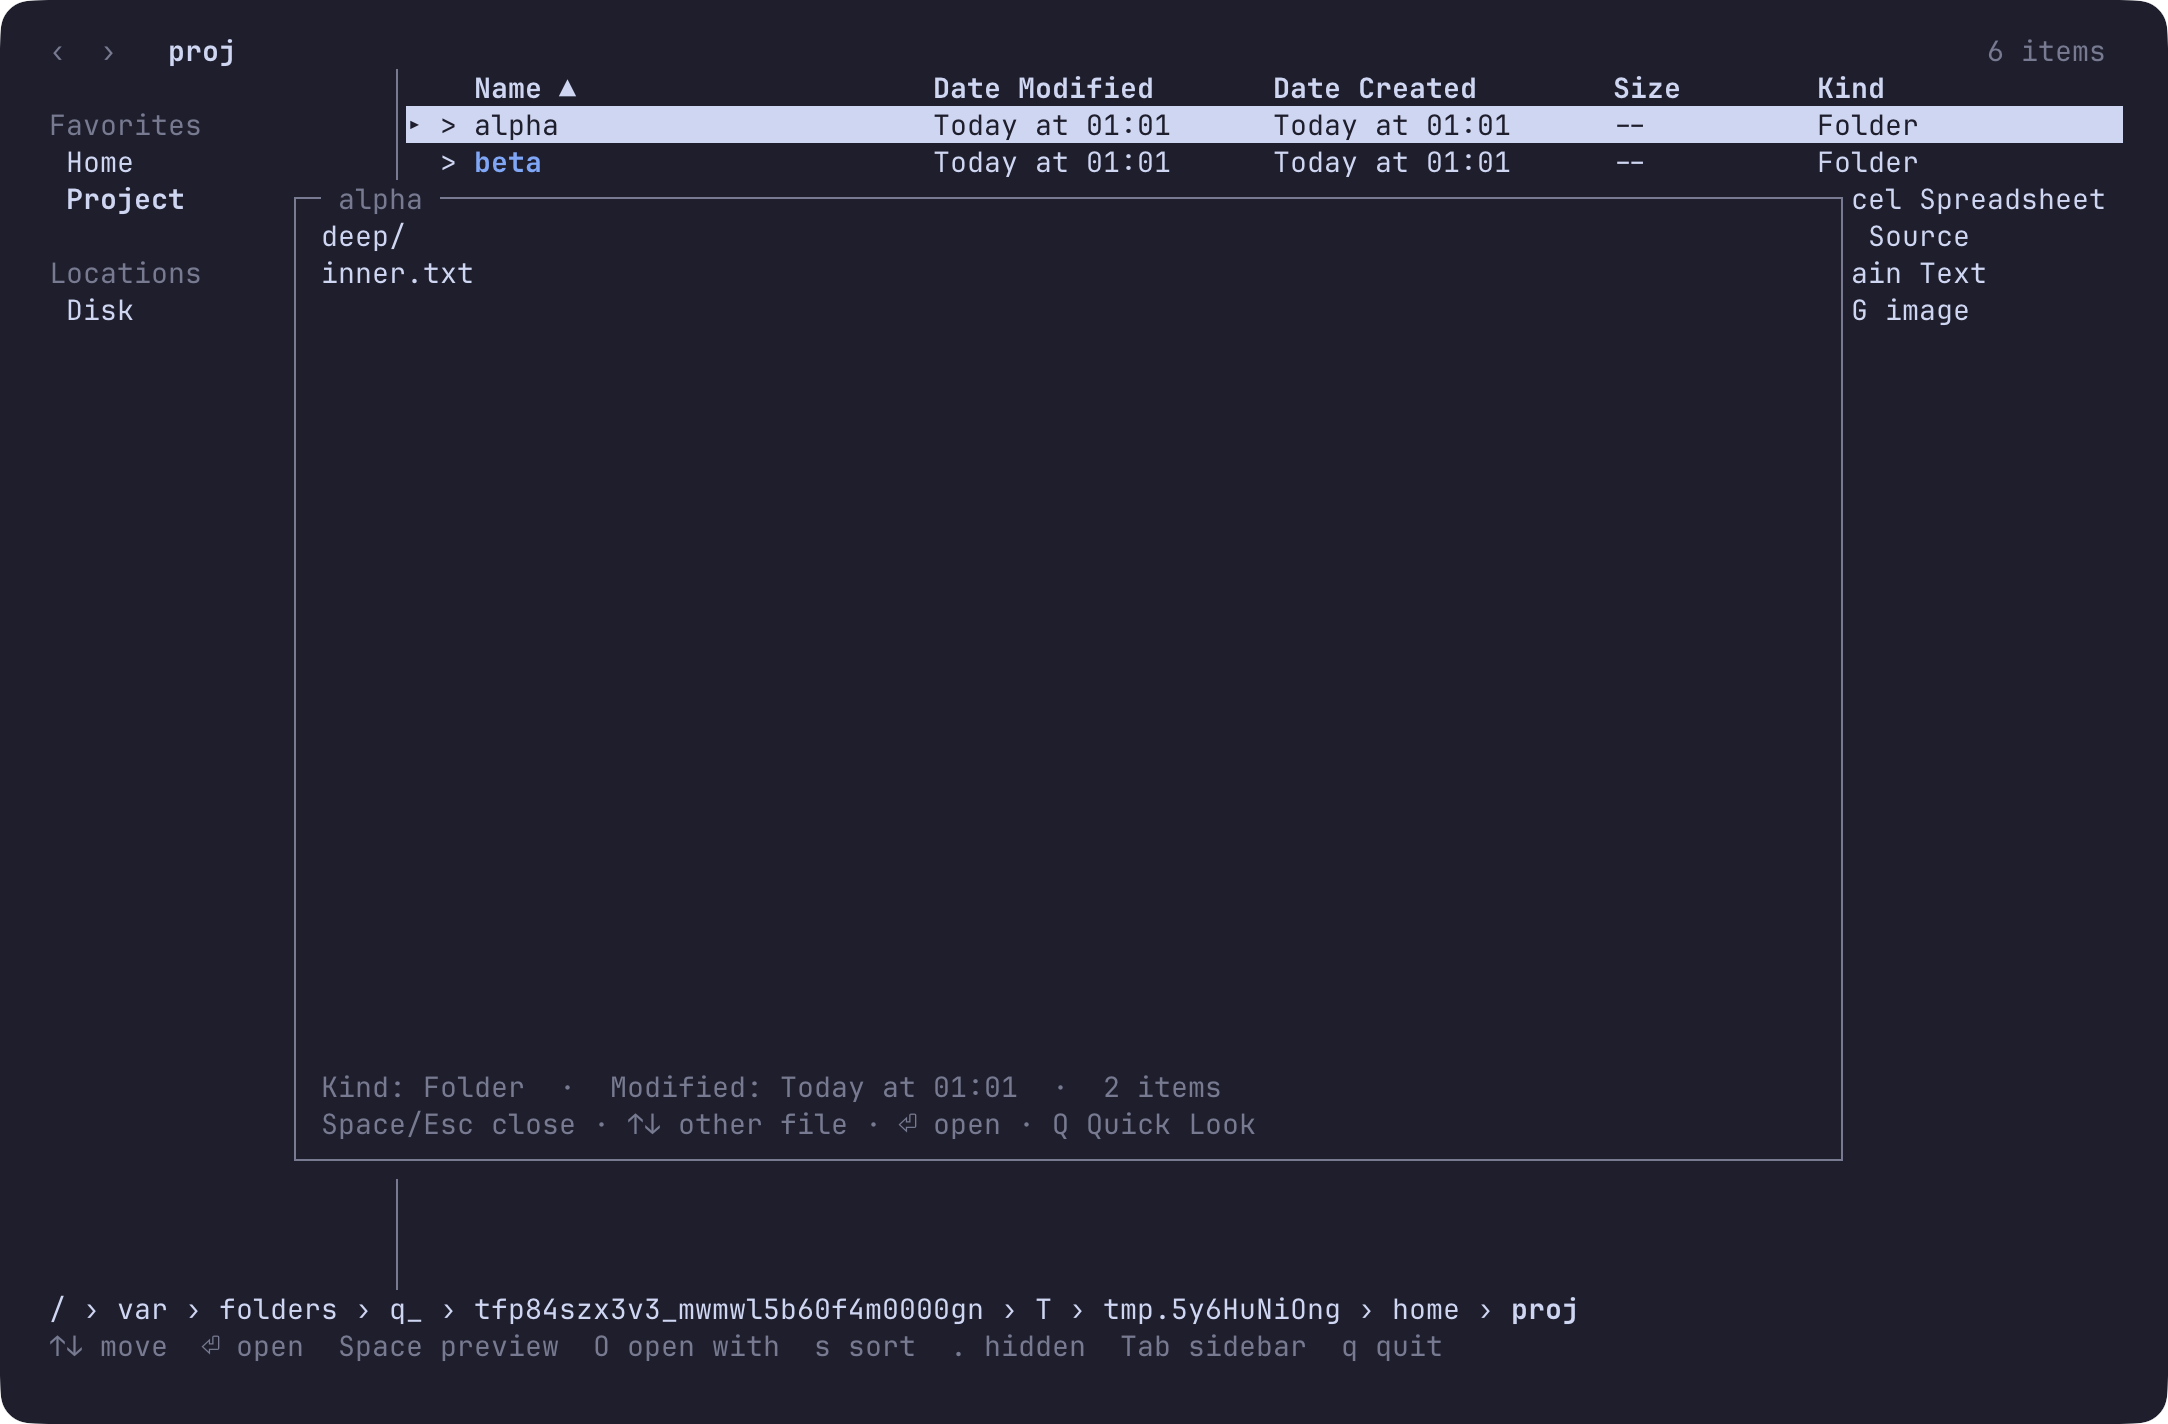
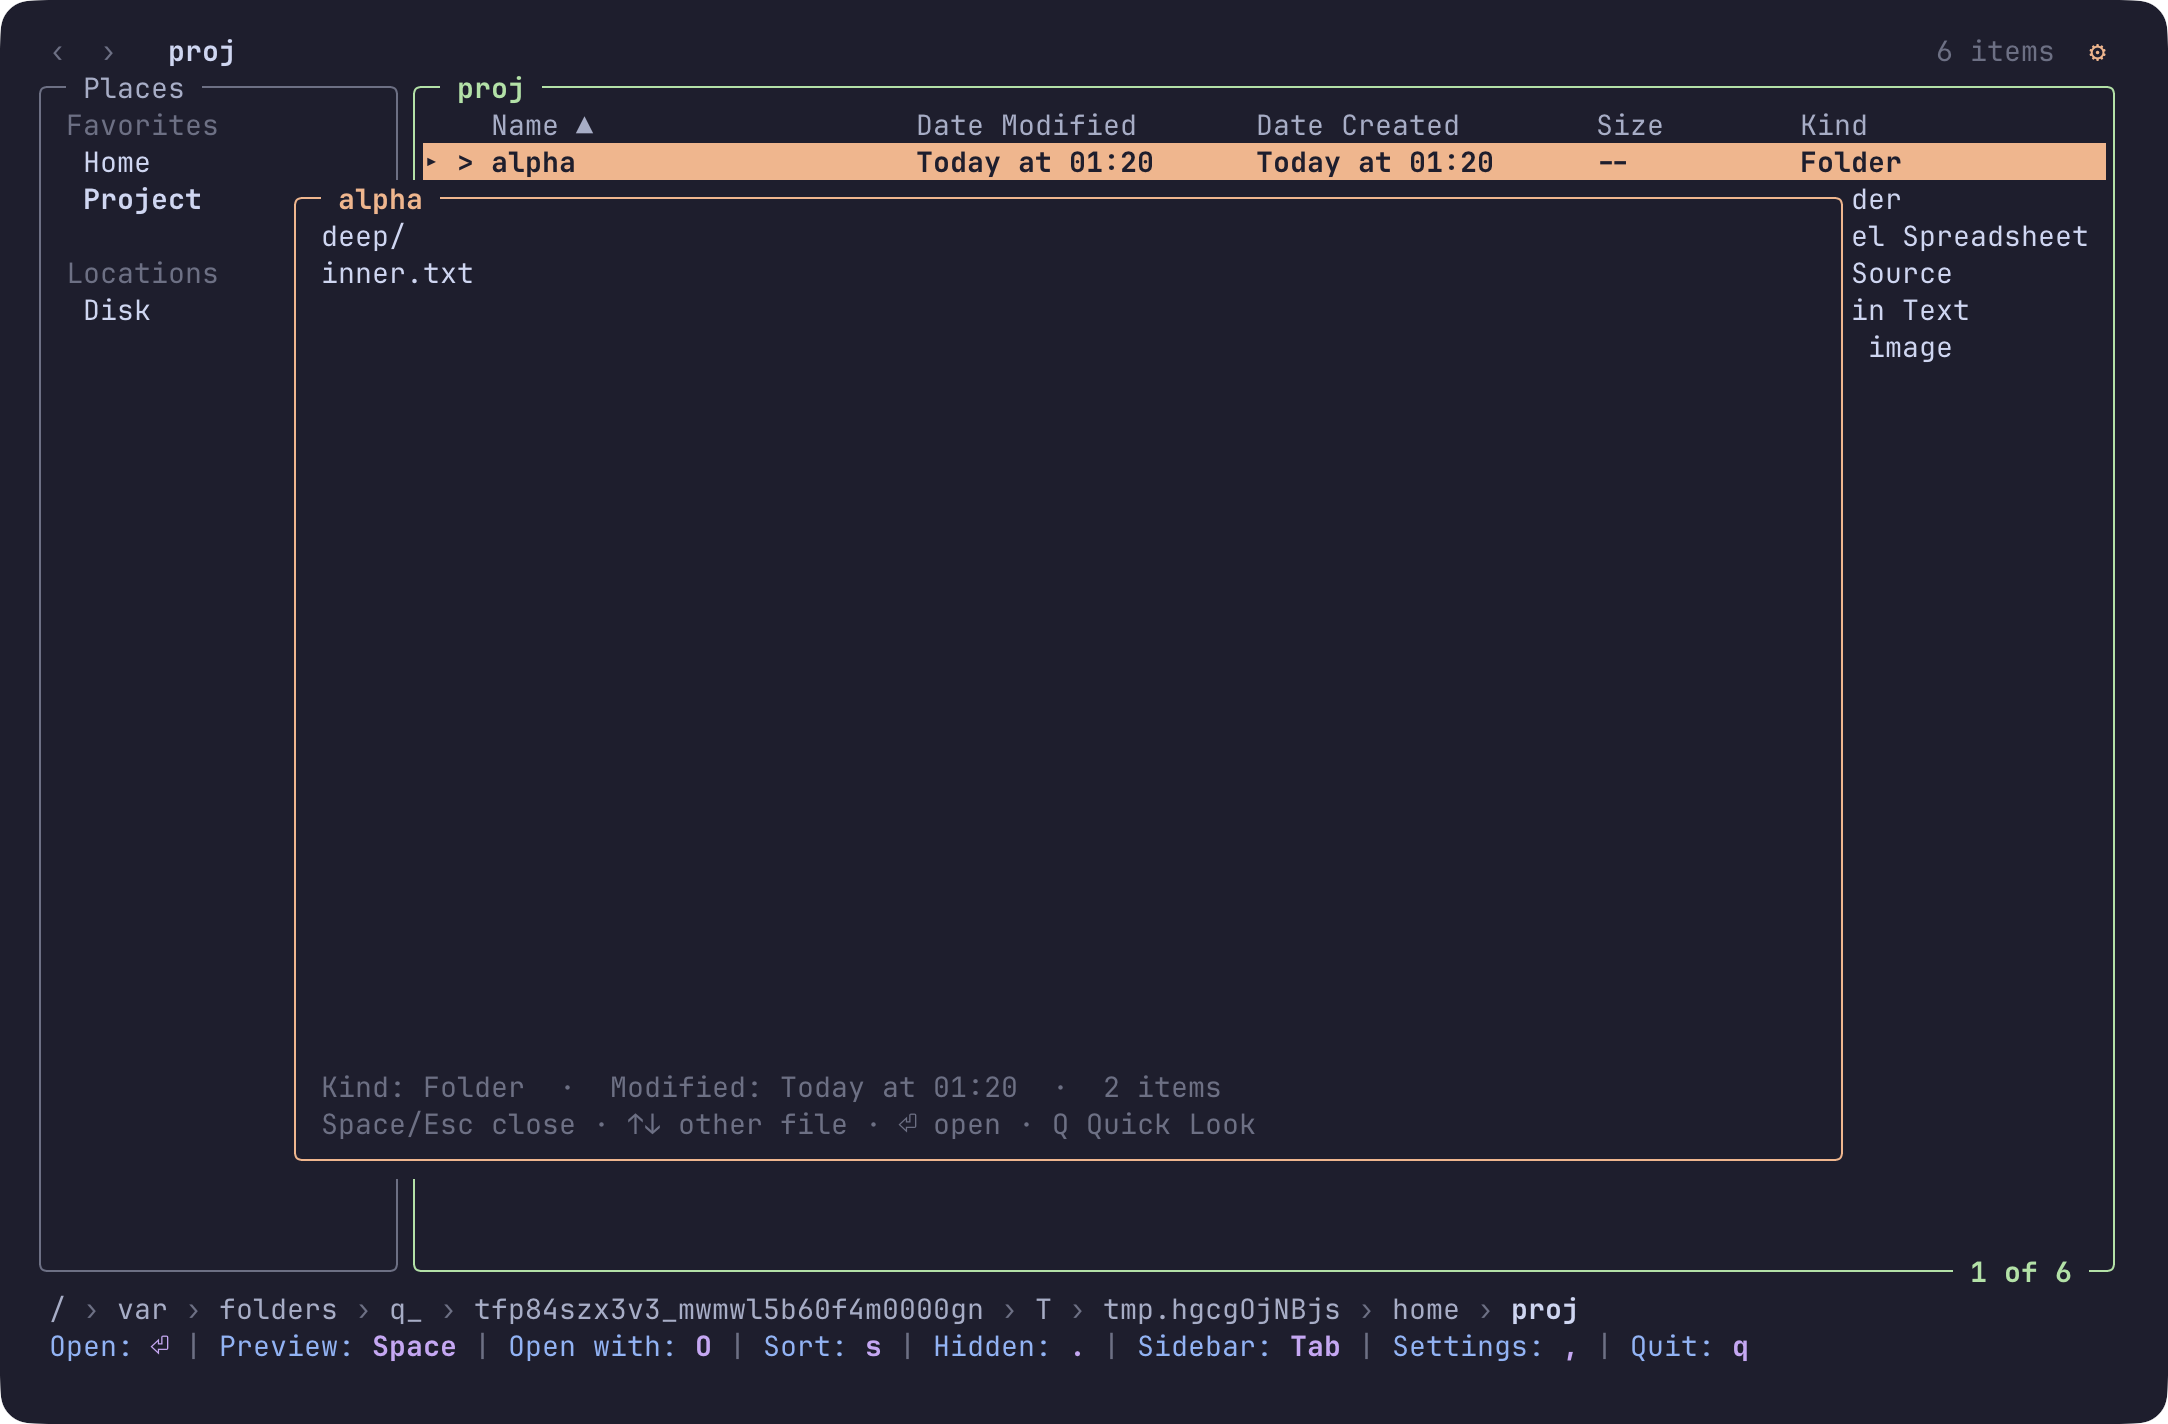
docs: refresh screenshots for the lazy look, themes, settings and Spanish

diff --git a/README.md b/README.md
@@ -10,7 +10,7 @@ Columns, a sidebar, a Space preview popup and open-with, with keyboard and mouse
 [![Go version](https://img.shields.io/github/go-mod/go-version/MathiasDrizzy/lazyfinder)](go.mod)
 [![License: MIT](https://img.shields.io/github/license/MathiasDrizzy/lazyfinder)](LICENSE)
 
-<img src="docs/screenshots/list.png" alt="lazyfinder showing a folder with a sidebar and the columns Name, Date Modified, Date Created, Size and Kind" width="100%">
+<img src="docs/screenshots/list.png" alt="lazyfinder with rounded panels, a sidebar, the columns Name, Date Modified, Date Created, Size and Kind, and a key bar" width="100%">
 
 [Install](#install) · [Quick start](#quick-start) · [Keys](#keys) · [Configuration](#configuration) · [Roadmap](docs/ROADMAP.md)
 
@@ -103,6 +103,12 @@ themes (`catppuccin-mocha` by default), takes your own from `<config dir>/themes
 Portuguese, French, German, Italian, Japanese and Chinese. Press `,` (or click the gear) to change the theme,
 language, image protocol and more; changes apply at once and are saved. For one run only:
 `lazyfinder --theme nord --lang es --no-mouse`.
+
+<img src="docs/screenshots/settings.png" alt="The settings popup over the list" width="100%">
+
+<img src="docs/screenshots/theme-latte.png" alt="The catppuccin-latte theme with a preview popup" width="100%">
+
+<img src="docs/screenshots/spanish.png" alt="The interface in Spanish" width="100%">
 
 ## Build and test
 
